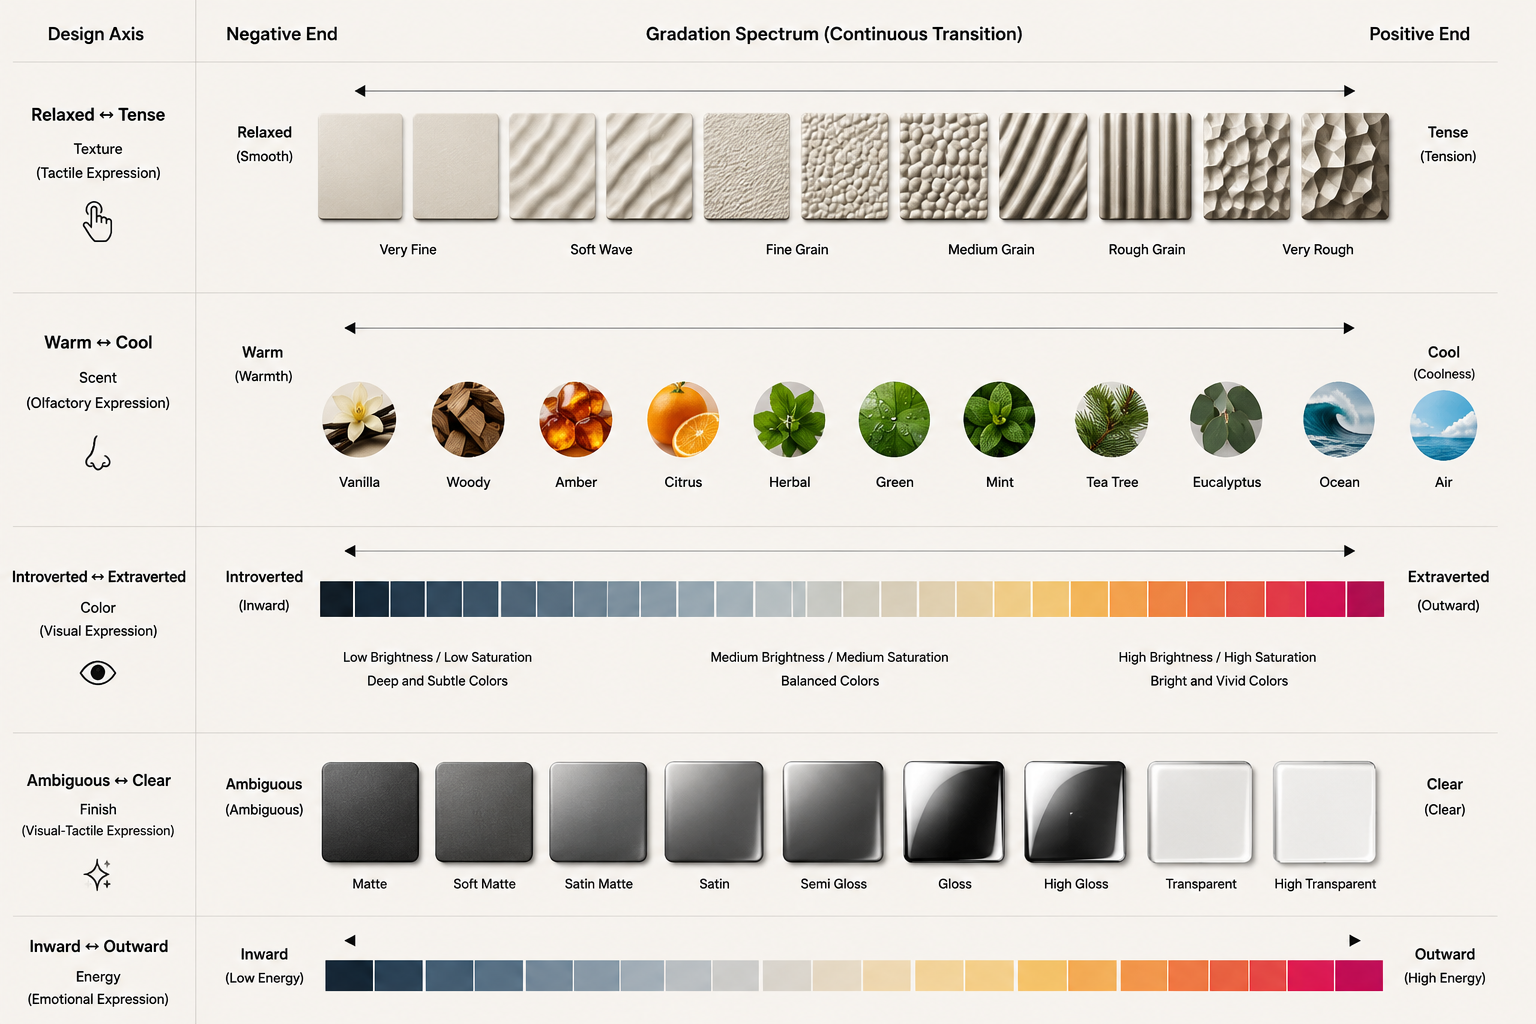
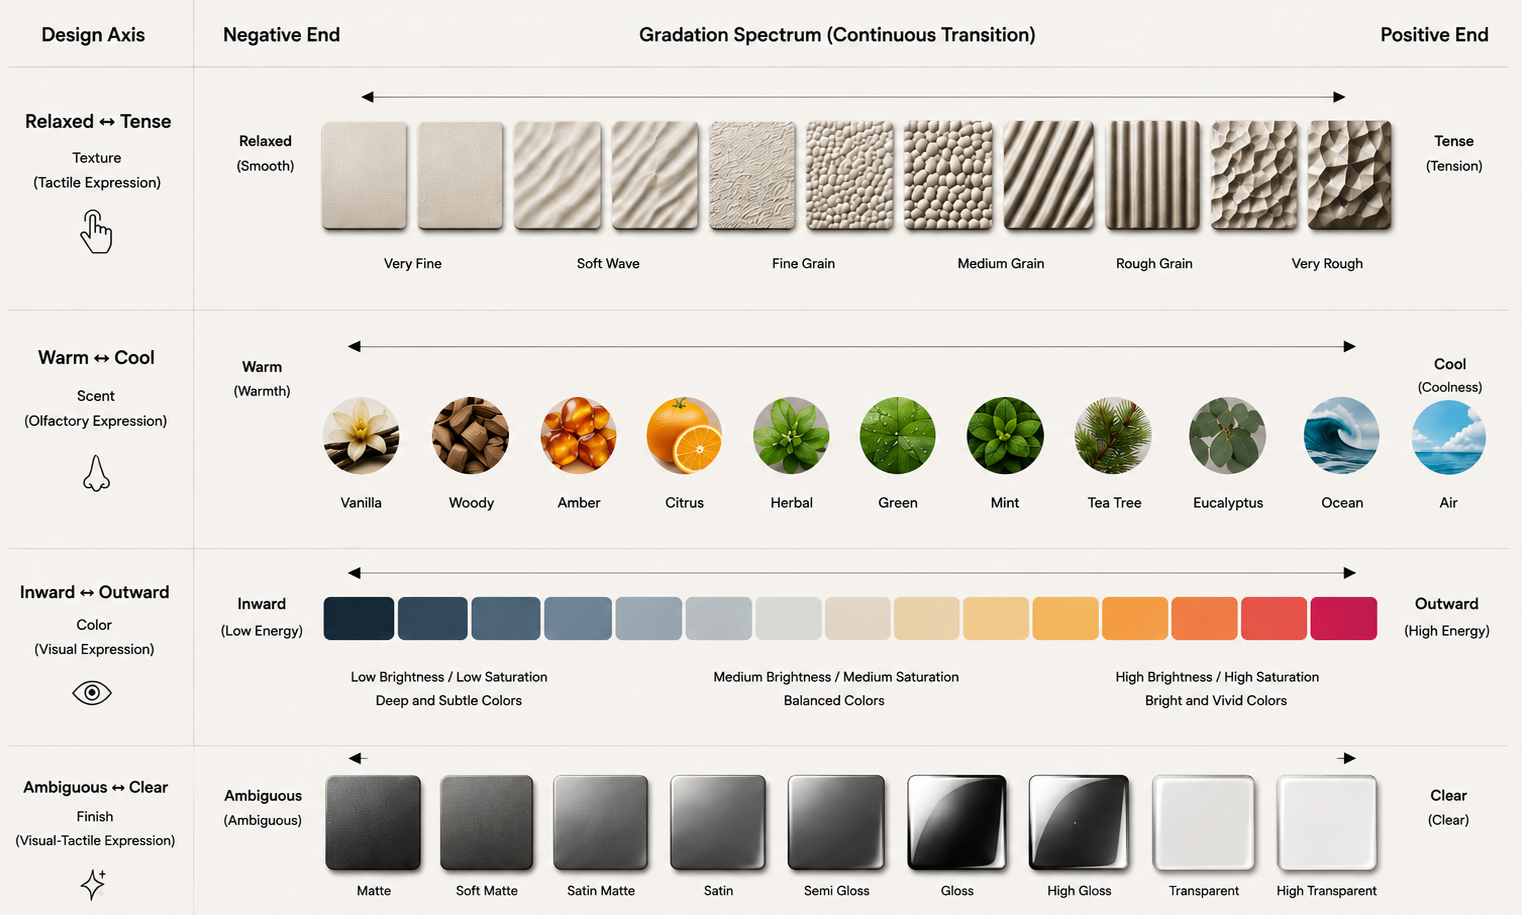
Refine intro, project map, and process sections

diff --git a/details.js b/details.js
@@ -49,4 +49,5 @@ balium:[
 ['REFLECTION','From emotional awareness to bodily self-awareness.','Balium expanded my interest in perception from emotional awareness toward bodily self-awareness. It introduced physical feedback as another way an interface can make an otherwise unnoticed state perceptible.']]};
 const k=new URLSearchParams(location.search).get('project')||'living',names=['01','02','03','04','05','06','07'];
 document.querySelectorAll('.section').forEach(x=>x.remove());
-document.querySelector('.footer').insertAdjacentHTML('beforebegin',`${k==='lockin'?'<section class="prototype-videos" aria-label="LOCKIN prototype videos"><span class="label">PROTOTYPE INTERACTIONS · USER FLOW</span><div class="video-grid"><article><b>01 / ONBOARDING</b><video controls playsinline preload="metadata"><source src="assets/projects/lockin-prototype-03.mp4" type="video/mp4"></video></article><article><b>02 / CHOICE</b><video controls playsinline preload="metadata"><source src="assets/projects/lockin-prototype-01.mp4" type="video/mp4"></video></article><article><b>03 / FEED</b><video controls playsinline preload="metadata"><source src="assets/projects/lockin-prototype-02.mp4" type="video/mp4"></video></article></div></section>':k==='child'?'<section class="child-video" aria-label="Child Depression Screening Game prototype"><span class="label">PROTOTYPE VIDEO</span><video controls playsinline preload="metadata"><source src="assets/projects/child-prototype.mp4" type="video/mp4"></video></section>':k==='squeeze'?'<section class="squeeze-gallery" aria-label="SQUEEZE ME exhibition documentation"><span class="label">EXHIBITION &amp; OBJECT STUDIES</span><div><img src="assets/projects/squeeze-hero.png" alt="SQUEEZE ME exhibition view"><img src="assets/projects/squeeze-object-02.png" alt="SQUEEZE ME tactile dome object"><img src="assets/projects/squeeze-poster.png" alt="SQUEEZE ME project poster"></div></section>':k==='balium'?'<section class="balium-gallery" aria-label="BALIUM exhibition documentation"><span class="label">EXHIBITION &amp; DESIGN PROCESS</span><div><img src="assets/projects/balium-exhibition.jpg" alt="BALIUM exhibition view"><img src="assets/projects/balium-detail.png" alt="BALIUM chair detail"><img src="assets/projects/balium-board.jpeg" alt="BALIUM project board"></div></section>':''}${D[k].map((s,i)=>`<section class="section"><span class="label">${names[i]} ${s[0]}</span><div><h2>${s[1]}</h2><p>${s[2]}</p></div><div class="mini">MEDIA</div></section>`).join('')}`);
+const developmentSection=`<section class="process-development" aria-label="Project process development"><span class="label">PROCESS DEVELOPMENT</span><div class="process-heading"><h2>From observation to iteration.</h2><p>Use this space to document how the project developed through experiments, prototypes, feedback, and decisions.</p></div><ol><li><b>01 / OBSERVE</b><span>Context, references, or early research</span><i>ADD IMAGE / NOTE</i></li><li><b>02 / EXPERIMENT</b><span>Material, interaction, or content test</span><i>ADD IMAGE / NOTE</i></li><li><b>03 / PROTOTYPE</b><span>First form, flow, or scenario</span><i>ADD IMAGE / NOTE</i></li><li><b>04 / TEST</b><span>Feedback, observation, or comparison</span><i>ADD IMAGE / NOTE</i></li><li><b>05 / REFINE</b><span>Design decision and next iteration</span><i>ADD IMAGE / NOTE</i></li></ol></section>`;
+document.querySelector('.footer').insertAdjacentHTML('beforebegin',`${k==='lockin'?'<section class="prototype-videos" aria-label="LOCKIN prototype videos"><span class="label">PROTOTYPE INTERACTIONS · USER FLOW</span><div class="video-grid"><article><b>01 / ONBOARDING</b><video controls playsinline preload="metadata"><source src="assets/projects/lockin-prototype-03.mp4" type="video/mp4"></video></article><article><b>02 / CHOICE</b><video controls playsinline preload="metadata"><source src="assets/projects/lockin-prototype-01.mp4" type="video/mp4"></video></article><article><b>03 / FEED</b><video controls playsinline preload="metadata"><source src="assets/projects/lockin-prototype-02.mp4" type="video/mp4"></video></article></div></section>':k==='child'?'<section class="child-video" aria-label="Child Depression Screening Game prototype"><span class="label">PROTOTYPE VIDEO</span><video controls playsinline preload="metadata"><source src="assets/projects/child-prototype.mp4" type="video/mp4"></video></section>':k==='squeeze'?'<section class="squeeze-gallery" aria-label="SQUEEZE ME exhibition documentation"><span class="label">EXHIBITION &amp; OBJECT STUDIES</span><div><img src="assets/projects/squeeze-hero.png" alt="SQUEEZE ME exhibition view"><img src="assets/projects/squeeze-object-02.png" alt="SQUEEZE ME tactile dome object"><img src="assets/projects/squeeze-poster.png" alt="SQUEEZE ME project poster"></div></section>':k==='balium'?'<section class="balium-gallery" aria-label="BALIUM exhibition documentation"><span class="label">EXHIBITION &amp; DESIGN PROCESS</span><div><img src="assets/projects/balium-exhibition.jpg" alt="BALIUM exhibition view"><img src="assets/projects/balium-detail.png" alt="BALIUM chair detail"><img src="assets/projects/balium-board.jpeg" alt="BALIUM project board"></div></section>':''}${D[k].map((s,i)=>`<section class="section"><span class="label">${names[i]} ${s[0]}</span><div><h2>${s[1]}</h2><p>${s[2]}</p></div><div class="mini">MEDIA</div></section>${k==='living'&&i===3?'<section class="design-axis design-axis-inline" aria-label="Living Object design axes"><span class="label">DESIGN AXIS</span><img src="assets/projects/living-design-axis.png" alt="Living Object design axes: texture, scent, color, finish, and energy spectra" /></section>':''}${i===5?developmentSection:''}`).join('')}`);

diff --git a/style.css b/style.css
@@ -44,7 +44,7 @@ body{background:var(--paper)}.site-shell{padding:0}.page-nav{background:var(--pa
 /* Remove the paper-colour image rectangles while keeping the painted objects. */
 .projects .project>img{mix-blend-mode:multiply;filter:contrast(1.08) saturate(.9);opacity:.8}
 .projects .pms{left:48%;top:14%}.projects .child{left:28%;top:41%}
-.projects .living{left:31%;top:14%}.projects .pms{left:59%;top:13.5%}.projects .child{left:49%;top:45%}.projects .lockin,.projects .squeeze,.projects .balium{top:76%;transform:scale(.7);transform-origin:top left}.projects .lockin{left:35%}.projects .squeeze{left:52%}.projects .balium{left:67%}.projects .lockin>img,.projects .squeeze>img,.projects .balium>img{top:54px}@media(max-width:700px){.projects .living,.projects .pms,.projects .child{left:auto;top:auto}.projects .lockin,.projects .squeeze,.projects .balium{top:auto;transform:none}.projects .lockin>img,.projects .squeeze>img,.projects .balium>img{top:auto}}
+.projects .living{left:31%;top:14%}.projects .pms{left:63%;top:13.5%}.projects .child{left:49%;top:45%}.projects .lockin,.projects .squeeze,.projects .balium{top:76%;transform:scale(.7);transform-origin:top left}.projects .lockin{left:35%}.projects .squeeze{left:52%}.projects .balium{left:67%}.projects .lockin>img,.projects .squeeze>img,.projects .balium>img{top:54px}@media(max-width:700px){.projects .living,.projects .pms,.projects .child{left:auto;top:auto}.projects .lockin,.projects .squeeze,.projects .balium{top:auto;transform:none}.projects .lockin>img,.projects .squeeze>img,.projects .balium>img{top:auto}}
 .projects .experience{display:none}.projects .explore-fields{display:block;left:27%;top:18%;width:52%;height:67%;opacity:1}.projects .explore-fields img{width:66%!important;height:66%!important;opacity:.5!important;animation:none!important}.projects .explore-fields img:nth-child(1){left:2%!important;top:1%!important}.projects .explore-fields img:nth-child(2){left:18%!important;top:-2%!important}.projects .explore-fields img:nth-child(3){left:34%!important;top:2%!important}.projects .explore-fields img:nth-child(4){left:34%!important;top:31%!important}.projects .explore-fields img:nth-child(5){left:18%!important;top:36%!important}.projects .explore-fields img:nth-child(6){left:2%!important;top:31%!important}@media(max-width:700px){.projects .explore-fields{left:5%;top:25%;width:90%;height:39%}.projects .explore-fields img{width:66%!important;height:66%!important}}
 .projects .explore-fields img:nth-child(4),.projects .explore-fields img:nth-child(5),.projects .explore-fields img:nth-child(6){opacity:.65!important}
 .projects .child{transform:scale(.9);transform-origin:top left}.projects .living>img,.projects .pms>img{transform:scale(1.12);transform-origin:top left}
@@ -53,5 +53,7 @@ body{background:var(--paper)}.site-shell{padding:0}.page-nav{background:var(--pa
 .projects .lockin>img,.projects .squeeze>img{opacity:1;filter:contrast(1.28) saturate(1.18) brightness(.88);mix-blend-mode:normal;filter:contrast(1.28) saturate(1.18) brightness(.88) drop-shadow(0 3px 5px rgba(72,72,96,.18))}
 .projects .pms b,.projects .pms small{transform:translateX(-28px)}
 .projects .pms>span{transform:translateX(-28px)}
+@media(min-width:701px){.projects .explore-fields,.projects .projects-grid{transform:translateX(5%)}.projects .connectors{position:absolute;inset:0;transform:translateX(5%)}}
+.intro-title{left:13%;top:30%;width:74%;font-size:clamp(34px,4.9vw,74px);line-height:1.16}.intro-subtitle{left:18%;top:66%;width:64%}@media(max-width:700px){.intro-title{left:5%;top:26%;width:90%;font-size:clamp(32px,8.5vw,58px)}.intro-subtitle{left:10%;top:59%;width:80%}}
 .page.is-entering-forward{animation:page-slide-up .9s cubic-bezier(.22,.61,.36,1) both}.page.is-entering-backward{animation:page-slide-down .9s cubic-bezier(.22,.61,.36,1) both}@keyframes page-slide-up{from{opacity:0;transform:translateY(10%)}to{opacity:1;transform:translateY(0)}}@keyframes page-slide-down{from{opacity:0;transform:translateY(-10%)}to{opacity:1;transform:translateY(0)}}@media(prefers-reduced-motion:reduce){.page.is-entering-forward,.page.is-entering-backward{animation:none}}
-.projects .connectors img:nth-child(1),.projects .connectors img:nth-child(2),.projects .connectors img:nth-child(3),.projects .connectors img:nth-child(4){display:block}.projects .connectors img:nth-child(5),.projects .connectors img:nth-child(6){display:none}.projects .connectors img:nth-child(1){left:33%;top:43%;width:13%;transform:none}.projects .connectors img:nth-child(2){left:57%;top:43%;width:13%;transform:none}.projects .connectors img:nth-child(3){left:39%;top:70%;width:12%;transform:rotate(28deg)}.projects .connectors img:nth-child(4){left:58%;top:70%;width:12%;transform:rotate(152deg)}
+.projects .connectors img:nth-child(1),.projects .connectors img:nth-child(2),.projects .connectors img:nth-child(3),.projects .connectors img:nth-child(4){display:block}.projects .connectors img:nth-child(5),.projects .connectors img:nth-child(6){display:none}.projects .connectors img:nth-child(1){left:33%;top:43%;width:13%;transform:none}.projects .connectors img:nth-child(2){left:61%;top:43%;width:13%;transform:none}.projects .connectors img:nth-child(3){left:39%;top:70%;width:12%;transform:rotate(28deg)}.projects .connectors img:nth-child(4){left:58%;top:70%;width:12%;transform:rotate(152deg)}

diff --git a/project.css b/project.css
@@ -8,12 +8,13 @@
 .media img{width:100%;height:100%;object-fit:cover;display:block}
 .media{overflow:hidden}.media.living-media{width:80%;height:auto;aspect-ratio:3/2;margin:53px auto 94px}.media.living-media img{object-fit:contain}@media(max-width:800px){.media.living-media{width:80%;height:auto;aspect-ratio:3/2;margin:38px auto 70px}}
 .media.lockin-media{width:80%;height:auto;aspect-ratio:16/9;margin:53px auto 94px}.media.lockin-media img{object-fit:contain}@media(max-width:800px){.media.lockin-media{width:80%;height:auto;aspect-ratio:16/9;margin:38px auto 70px}}
-.design-axis{border-bottom:1px solid var(--line);padding:34px 0 48px}.design-axis img{display:block;width:100%;height:auto;margin-top:24px;object-fit:contain}@media(max-width:800px){.design-axis{padding:28px 0 36px;overflow-x:auto}.design-axis img{width:760px;max-width:none;margin-top:16px}}
+.design-axis{border-bottom:1px solid var(--line);padding:34px 0 48px}.design-axis img{display:block;width:80%;height:auto;margin:24px auto 0;object-fit:contain}@media(max-width:800px){.design-axis{padding:28px 0 36px;overflow-x:auto}.design-axis img{width:760px;max-width:none;margin-top:16px}}
 .media.squeeze-media{width:62%;height:auto;aspect-ratio:5/4;margin:53px auto 94px}.media.squeeze-media img{object-fit:contain}@media(max-width:800px){.media.squeeze-media{width:88%;height:auto;aspect-ratio:5/4;margin:38px auto 70px}}
 .squeeze-gallery{border-bottom:1px solid var(--line);padding:34px 0 48px}.squeeze-gallery>div{display:grid;grid-template-columns:repeat(3,minmax(0,1fr));width:80%;margin:24px auto 0;gap:24px;align-items:center}.squeeze-gallery img{width:100%;height:auto;display:block;object-fit:contain;justify-self:center;align-self:center;max-height:640px}@media(max-width:800px){.squeeze-gallery{padding:28px 0 36px}.squeeze-gallery>div{width:100%;gap:8px;margin-top:16px}.squeeze-gallery img{max-height:360px}}
 .media.balium-media{width:54%;height:auto;aspect-ratio:3/4;margin:53px auto 94px}.media.balium-media img{object-fit:contain}.balium-gallery{border-bottom:1px solid var(--line);padding:34px 0 48px}.balium-gallery>div{display:grid;grid-template-columns:repeat(3,auto);justify-content:center;gap:24px;margin-top:24px;align-items:center}.balium-gallery img{width:auto;height:auto;display:block;object-fit:contain;max-width:300px;max-height:300px;margin:auto}@media(max-width:800px){.media.balium-media{width:78%;height:auto;aspect-ratio:3/4;margin:38px auto 70px}.balium-gallery{padding:28px 0 36px}.balium-gallery>div{gap:8px;margin-top:16px}.balium-gallery img{max-width:31vw;max-height:150px}}
 .child-video{border-bottom:1px solid var(--line);padding:34px 0 48px}.child-video video{display:block;width:min(80%,860px);max-height:620px;margin:24px auto 0;background:#f2f1ee;object-fit:contain}@media(max-width:800px){.child-video{padding:28px 0 36px}.child-video video{width:100%;max-height:440px;margin-top:16px}}
 .prototype-videos{border-bottom:1px solid var(--line);padding:34px 0 48px}.video-grid{display:flex;gap:52px;justify-content:center;margin-top:24px}.video-grid article{display:grid;gap:12px;justify-items:center}.video-grid article b{font-size:11px;letter-spacing:1px;color:var(--accent)}.video-grid video{width:min(15vw,170px);height:min(30vw,350px);background:transparent;object-fit:cover;object-position:center;border-radius:22px;clip-path:inset(0 round 22px)}@media(max-width:800px){.prototype-videos{padding:28px 0 36px}.video-grid{gap:12px;margin-top:16px}.video-grid article{gap:7px}.video-grid article b{font-size:8px;letter-spacing:.3px}.video-grid video{width:21vw;height:40vw;border-radius:14px;clip-path:inset(0 round 14px)}}
 .section h2{font-size:15px}.section p{font-size:13px;line-height:1.7}@media(max-width:800px){.section h2{font-size:13px}.section p{font-size:12px}}
+.process-development{border-bottom:1px solid var(--line);padding:38px 0 52px}.process-heading{display:flex;justify-content:space-between;gap:40px;margin:18px 0 28px}.process-heading h2{margin:0;font-size:22px}.process-heading p{max-width:420px;margin:0;color:var(--muted);font-size:13px;line-height:1.6}.process-development ol{display:grid;grid-template-columns:repeat(5,1fr);gap:12px;list-style:none;margin:0;padding:0}.process-development li{min-height:180px;border:1px dashed #c9c5bd;padding:14px;display:flex;flex-direction:column;gap:10px;background:linear-gradient(135deg,#f8f7f4,#fbfaf8)}.process-development b{font-size:10px;letter-spacing:.8px;color:var(--accent)}.process-development span{font-size:12px;line-height:1.45}.process-development i{margin-top:auto;color:#999;font-size:9px;font-style:normal;letter-spacing:.8px}@media(max-width:800px){.process-development{padding:30px 0 38px}.process-heading{display:block;margin-bottom:18px}.process-heading h2{font-size:18px}.process-heading p{margin-top:8px}.process-development ol{grid-template-columns:1fr 1fr;gap:8px}.process-development li{min-height:128px;padding:10px}.process-development li:last-child{grid-column:span 2}.process-development span{font-size:11px}}
 /* LOCKIN hero asset */
 .media img{width:100%;height:100%;object-fit:cover;display:block}

diff --git a/project.js b/project.js
@@ -8,6 +8,6 @@ balium:['06','BALIUM','EXPLORATION · BODY · PHYSICAL FEEDBACK','#407d47',['Bal
 const key=new URLSearchParams(location.search).get('project')||'living',p=data[key]||data.living,labels=['PROJECT NAME','AMBIGUOUS STATE','BARRIER','MEDIUM','INTERFACE MODE','RESPONSE'],copy=['This project examines an ambiguous everyday state and looks for a way to make it more perceptible, interpretable, and actionable without demanding an immediate explanation.','The interface focuses on the gap between what is experienced and what can be consciously understood in the moment.','The design frames this gap as a condition for reflection rather than a problem to be immediately resolved.','Its strategy uses material, information, or narrative interaction to create a meaningful relationship with the state.','The resulting experience supports a small, deliberate response in the moment.','The project expands the wider portfolio’s exploration of affective interfaces.'];
 document.documentElement.style.setProperty('--accent',p[3]);document.title=`${p[1]} — Raina`;document.querySelector('#project').innerHTML=`<header class="head"><a class="all-projects" href="index.html?page=projects">← ALL PROJECTS</a><nav class="project-nav" aria-label="Portfolio navigation"><a href="index.html?page=intro">00 / INTRO</a><a href="index.html?page=position">01 / POSITION</a><a href="index.html?page=projects">02 / PROJECTS</a><a class="active" href="#top">03 / ${p[1]}</a></nav></header><div class="title"><span class="number">${p[0]}</span><h1>${p[1]}</h1><p>${p[2]}</p></div><div class="media">PROJECT MEDIA / HERO</div><p class="frame-label">PROJECT FRAME</p><div class="frame">${p[4].map((v,i)=>`<div><b>${labels[i]}</b><span>${v}</span></div>`).join('')}</div>${p[5].map((h,i)=>`<section class="section"><span class="label">${String(i+1).padStart(2,'0')} ${['QUESTION','AMBIGUOUS STATE + CONTEXT','BARRIER + INSIGHT','EXPERIENCE','EVIDENCE + DEVELOPMENT','REFLECTION'][i]}</span><div><h2>${h}</h2><p>${copy[i]}</p></div><div class="mini">MEDIA</div></section>`).join('')}<footer class="footer"><a href="#top">BACK TO TOP ↑</a></footer>`;
 if (key === 'lockin') { document.querySelector('.media').classList.add('lockin-media'); document.querySelector('.media').innerHTML = '<img src="assets/projects/lockin-hero.jpg" alt="LOCKIN app screens" />'; }
-if (key === 'living') { document.querySelector('.media').classList.add('living-media'); document.querySelector('.media').innerHTML = '<img src="assets/projects/living-hero.png" alt="Living Object tactile press and texture pieces" />'; document.querySelector('.frame-label').insertAdjacentHTML('beforebegin', '<section class="design-axis" aria-label="Living Object design axes"><span class="label">DESIGN AXIS</span><img src="assets/projects/living-design-axis.png" alt="Living Object design axes: texture, scent, color, finish, and energy spectra" /></section>'); }
+if (key === 'living') { document.querySelector('.media').classList.add('living-media'); document.querySelector('.media').innerHTML = '<img src="assets/projects/living-hero.png" alt="Living Object tactile press and texture pieces" />'; }
 if (key === 'squeeze') { document.querySelector('.media').classList.add('squeeze-media'); document.querySelector('.media').innerHTML = '<img src="assets/projects/squeeze-hero-cropped.png" alt="SQUEEZE ME tactile object studies" />'; }
 if (key === 'balium') { document.querySelector('.media').classList.add('balium-media'); document.querySelector('.media').innerHTML = '<img src="assets/projects/balium-hero.jpg" alt="BALIUM responsive chair prototype" />'; }

diff --git a/index.html b/index.html
@@ -20,8 +20,8 @@
       <section class="page intro is-active" data-page-panel="intro">
         <header><strong>HEESEO KIM</strong></header>
         <div class="hero-fields" aria-hidden="true"><img src="assets/figma/hero-field-1.svg" alt="" /><img src="assets/figma/hero-field-2.svg" alt="" /><img src="assets/figma/hero-field-3.svg" alt="" /><img src="assets/figma/hero-field-4.svg" alt="" /></div>
-        <div class="intro-title">MAKING<br />EMOTIONS<br />LEGIBLE</div>
-        <p class="intro-subtitle">AFFECTIVE INTERFACES FOR AMBIGUOUS STATES</p>
+        <div class="intro-title">MAKING<br />AMBIGUOUS STATES<br />LEGIBLE</div>
+        <p class="intro-subtitle">AFFECTIVE INTERFACES FOR AMBIGUOUS<br />EMOTIONAL + PSYCHOLOGICAL STATES</p>
         <button class="down-arrow" data-next="position" aria-label="Next page">↓</button>
       </section>
 
@@ -35,7 +35,7 @@
 
       <section class="page projects" data-page-panel="projects">
         <header><strong>HEESEO KIM</strong></header>
-        <aside class="projects-intro"><h1>MAKING<br />EMOTIONS<br />LEGIBLE</h1><p>Design affective interfaces<br />that make ambiguous<br />emotional states perceptible,<br />interpretable, and actionable.</p></aside>
+        <aside class="projects-intro"><h1>MAKING<br />AMBIGUOUS STATES<br />LEGIBLE</h1><p>Design affective interfaces<br />that make ambiguous emotional<br />and psychological states<br />perceptible, interpretable,<br />and actionable.</p></aside>
         <div class="explore-fields" aria-hidden="true"><img src="assets/figma/explore-field-3.svg" alt="" /><img src="assets/figma/explore-field-2.svg" alt="" /><img src="assets/figma/explore-field-1.svg" alt="" /><img src="assets/figma/explore-field-4.svg" alt="" /><img src="assets/figma/explore-field-5.svg" alt="" /><img src="assets/figma/explore-field-3.svg" alt="" /></div>
         <div class="experience"><b>A M B I G U O U S<br />E X P E R I E N C E</b><span>Felt before it is known.<br />—</span></div>
         <div class="connectors" aria-hidden="true"><img src="assets/figma/connector-1.svg" alt="" /><img src="assets/figma/connector-2.svg" alt="" /><img src="assets/figma/connector-3.svg" alt="" /><img src="assets/figma/connector-4.svg" alt="" /><img src="assets/figma/connector-5.svg" alt="" /><img src="assets/figma/connector-6.svg" alt="" /></div>
